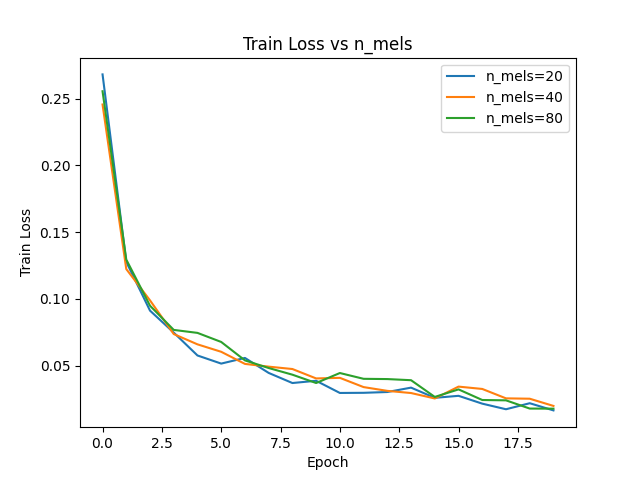
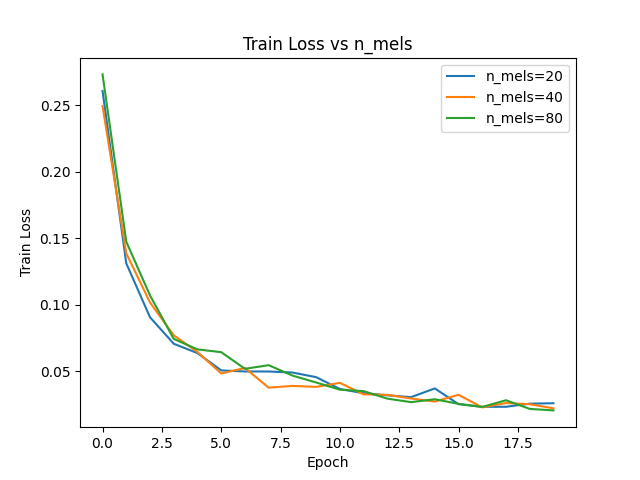
New graphics + report

diff --git a/assignments/assignment1/REPORT.md b/assignments/assignment1/REPORT.md
@@ -1,0 +1,281 @@
+# Отчет по заданию 1. Цифровая обработка сигналов
+
+## 1. Реализация LogMelFilterBanks
+
+Реализован PyTorch-модуль `LogMelFilterBanks` для извлечения логарифмов энергий мел-фильтров. Модуль последовательно выполняет: STFT с окном Ханна, вычисление спектра мощности, мел-фильтрацию и логарифмирование.
+
+Реализация проверена на соответствие эталонному `torchaudio.transforms.MelSpectrogram` — оба assert (`shape` и `allclose`) проходят успешно.
+
+### Визуальное сравнение
+
+Сравнение на произвольном аудиофайле (16 кГц): сверху — `torchaudio.MelSpectrogram` (с логарифмом), снизу — наша реализация. Спектрограммы визуально идентичны.
+
+![Сравнение мел-спектрограмм](melbanks_comparison.png)
+
+---
+
+## 2. Архитектура модели
+
+Модель SpeechCNN для бинарной классификации ("yes" / "no") на датасете Google Speech Commands. Три слоя Conv1d (32→64→64 каналов, kernel_size=5) с BatchNorm и ReLU, Global Average Pooling и линейный классификатор. На вход подаются LogMelFilterBanks-признаки.
+
+Обучение: Adam (lr=1e-3), batch size 64, 20 эпох, BCEWithLogitsLoss.
+Данные: Train — 6358, Val — 803, Test — 824 сэмплов.
+
+---
+
+## 3. Эксперименты с числом мел-фильтров (n_mels)
+
+| n_mels | Параметры | Test Accuracy |
+|--------|-----------|---------------|
+| 20     | 34 465    | **99.51%**    |
+| 40     | 37 665    | 99.64%        |
+| 80     | 44 065    | 98.06%        |
+
+### Логи обучения
+
+<details>
+<summary>n_mels=20</summary>
+
+```
+Epoch  1/20 | Loss: 0.2608 | Val Acc: 0.9676 | Time: 4.35s
+Epoch  2/20 | Loss: 0.1312 | Val Acc: 0.9726 | Time: 2.20s
+Epoch  3/20 | Loss: 0.0907 | Val Acc: 0.9763 | Time: 2.15s
+Epoch  4/20 | Loss: 0.0708 | Val Acc: 0.9726 | Time: 2.26s
+Epoch  5/20 | Loss: 0.0637 | Val Acc: 0.9589 | Time: 2.96s
+Epoch  6/20 | Loss: 0.0507 | Val Acc: 0.9813 | Time: 2.12s
+Epoch  7/20 | Loss: 0.0499 | Val Acc: 0.9875 | Time: 2.11s
+Epoch  8/20 | Loss: 0.0499 | Val Acc: 0.9851 | Time: 2.13s
+Epoch  9/20 | Loss: 0.0491 | Val Acc: 0.9863 | Time: 2.17s
+Epoch 10/20 | Loss: 0.0457 | Val Acc: 0.9925 | Time: 2.83s
+Epoch 11/20 | Loss: 0.0368 | Val Acc: 0.9900 | Time: 2.49s
+Epoch 12/20 | Loss: 0.0336 | Val Acc: 0.9900 | Time: 2.18s
+Epoch 13/20 | Loss: 0.0320 | Val Acc: 0.9801 | Time: 2.12s
+Epoch 14/20 | Loss: 0.0306 | Val Acc: 0.9851 | Time: 2.25s
+Epoch 15/20 | Loss: 0.0372 | Val Acc: 0.9888 | Time: 2.56s
+Epoch 16/20 | Loss: 0.0253 | Val Acc: 0.9938 | Time: 2.75s
+Epoch 17/20 | Loss: 0.0233 | Val Acc: 0.9913 | Time: 2.17s
+Epoch 18/20 | Loss: 0.0234 | Val Acc: 0.9875 | Time: 2.17s
+Epoch 19/20 | Loss: 0.0257 | Val Acc: 0.9913 | Time: 2.18s
+Epoch 20/20 | Loss: 0.0261 | Val Acc: 0.9925 | Time: 2.38s
+Test Acc: 0.9951
+```
+</details>
+
+<details>
+<summary>n_mels=40</summary>
+
+```
+Epoch  1/20 | Loss: 0.2495 | Val Acc: 0.9004 | Time: 3.02s
+Epoch  2/20 | Loss: 0.1387 | Val Acc: 0.8979 | Time: 2.21s
+Epoch  3/20 | Loss: 0.1018 | Val Acc: 0.9415 | Time: 2.27s
+Epoch  4/20 | Loss: 0.0771 | Val Acc: 0.9738 | Time: 2.23s
+Epoch  5/20 | Loss: 0.0646 | Val Acc: 0.9103 | Time: 2.26s
+Epoch  6/20 | Loss: 0.0484 | Val Acc: 0.9776 | Time: 2.86s
+Epoch  7/20 | Loss: 0.0526 | Val Acc: 0.9738 | Time: 2.21s
+Epoch  8/20 | Loss: 0.0377 | Val Acc: 0.9838 | Time: 2.26s
+Epoch  9/20 | Loss: 0.0391 | Val Acc: 0.9888 | Time: 2.27s
+Epoch 10/20 | Loss: 0.0383 | Val Acc: 0.9589 | Time: 2.17s
+Epoch 11/20 | Loss: 0.0414 | Val Acc: 0.9863 | Time: 2.78s
+Epoch 12/20 | Loss: 0.0327 | Val Acc: 0.9714 | Time: 2.50s
+Epoch 13/20 | Loss: 0.0324 | Val Acc: 0.9900 | Time: 2.21s
+Epoch 14/20 | Loss: 0.0296 | Val Acc: 0.9838 | Time: 2.16s
+Epoch 15/20 | Loss: 0.0273 | Val Acc: 0.9826 | Time: 2.23s
+Epoch 16/20 | Loss: 0.0324 | Val Acc: 0.9851 | Time: 2.69s
+Epoch 17/20 | Loss: 0.0229 | Val Acc: 0.9851 | Time: 2.77s
+Epoch 18/20 | Loss: 0.0262 | Val Acc: 0.9863 | Time: 2.21s
+Epoch 19/20 | Loss: 0.0253 | Val Acc: 0.9913 | Time: 2.18s
+Epoch 20/20 | Loss: 0.0222 | Val Acc: 0.9913 | Time: 2.21s
+Test Acc: 0.9964
+```
+</details>
+
+<details>
+<summary>n_mels=80</summary>
+
+```
+Epoch  1/20 | Loss: 0.2733 | Val Acc: 0.9340 | Time: 2.46s
+Epoch  2/20 | Loss: 0.1475 | Val Acc: 0.9763 | Time: 2.80s
+Epoch  3/20 | Loss: 0.1071 | Val Acc: 0.9838 | Time: 2.16s
+Epoch  4/20 | Loss: 0.0744 | Val Acc: 0.9738 | Time: 2.20s
+Epoch  5/20 | Loss: 0.0665 | Val Acc: 0.9863 | Time: 2.18s
+Epoch  6/20 | Loss: 0.0644 | Val Acc: 0.9801 | Time: 2.39s
+Epoch  7/20 | Loss: 0.0519 | Val Acc: 0.9651 | Time: 3.15s
+Epoch  8/20 | Loss: 0.0547 | Val Acc: 0.9863 | Time: 2.24s
+Epoch  9/20 | Loss: 0.0469 | Val Acc: 0.9738 | Time: 2.32s
+Epoch 10/20 | Loss: 0.0417 | Val Acc: 0.9838 | Time: 2.34s
+Epoch 11/20 | Loss: 0.0362 | Val Acc: 0.9875 | Time: 2.49s
+Epoch 12/20 | Loss: 0.0352 | Val Acc: 0.9701 | Time: 3.09s
+Epoch 13/20 | Loss: 0.0295 | Val Acc: 0.9888 | Time: 2.25s
+Epoch 14/20 | Loss: 0.0269 | Val Acc: 0.9738 | Time: 2.21s
+Epoch 15/20 | Loss: 0.0290 | Val Acc: 0.9863 | Time: 2.31s
+Epoch 16/20 | Loss: 0.0256 | Val Acc: 0.9838 | Time: 2.23s
+Epoch 17/20 | Loss: 0.0232 | Val Acc: 0.9863 | Time: 3.03s
+Epoch 18/20 | Loss: 0.0283 | Val Acc: 0.9614 | Time: 2.36s
+Epoch 19/20 | Loss: 0.0218 | Val Acc: 0.9863 | Time: 2.29s
+Epoch 20/20 | Loss: 0.0207 | Val Acc: 0.9813 | Time: 2.29s
+Test Acc: 0.9806
+```
+</details>
+
+### Графики
+
+| Train Loss | Test Accuracy |
+|:---:|:---:|
+| ![Train Loss vs n_mels](loss_vs_nmels.png) | ![Accuracy vs n_mels](acc_vs_nmels.png) |
+
+### Выводы
+
+- Все три варианта сходятся к похожим значениям loss (~0.02) за 20 эпох.
+- Для бинарной задачи (yes/no) даже 20 мел-фильтров достаточно для высокой точности (99.5%).
+- Увеличение `n_mels` увеличивает количество параметров (за счет первого Conv1d-слоя), но не дает прироста качества.
+- Наилучший баланс: `n_mels=40` (99.64% при 37 665 параметрах).
+
+---
+
+## 4. Эксперименты с групповыми свертками (groups)
+
+Базовая модель: `n_mels=80`, варьируется параметр `groups` в Conv1d-слоях.
+
+| Groups | Параметры | FLOPs       | Test Accuracy |
+|--------|-----------|-------------|---------------|
+| 1      | 44 065    | 6 100 465   | 98.06%        |
+| 2      | 22 305    | 3 902 705   | 98.67%        |
+| 4      | 11 425    | 2 803 825   | **98.79%**    |
+| 8      | 5 985     | 2 254 385   | 96.48%        |
+| 16     | 3 265     | 1 979 665   | 96.36%        |
+
+### Логи обучения
+
+<details>
+<summary>groups=2</summary>
+
+```
+Epoch  1/20 | Loss: 0.3178 | Val Acc: 0.9278 | Time: 2.81s
+Epoch  2/20 | Loss: 0.1693 | Val Acc: 0.8630 | Time: 3.42s
+Epoch  3/20 | Loss: 0.1270 | Val Acc: 0.9352 | Time: 2.64s
+Epoch  4/20 | Loss: 0.1120 | Val Acc: 0.9328 | Time: 2.69s
+Epoch  5/20 | Loss: 0.0918 | Val Acc: 0.6164 | Time: 2.69s
+Epoch  6/20 | Loss: 0.0861 | Val Acc: 0.9738 | Time: 3.18s
+Epoch  7/20 | Loss: 0.0781 | Val Acc: 0.9601 | Time: 2.83s
+Epoch  8/20 | Loss: 0.0654 | Val Acc: 0.9676 | Time: 2.72s
+Epoch  9/20 | Loss: 0.0582 | Val Acc: 0.9863 | Time: 2.66s
+Epoch 10/20 | Loss: 0.0527 | Val Acc: 0.9763 | Time: 2.91s
+Epoch 11/20 | Loss: 0.0498 | Val Acc: 0.9788 | Time: 3.15s
+Epoch 12/20 | Loss: 0.0412 | Val Acc: 0.9813 | Time: 2.72s
+Epoch 13/20 | Loss: 0.0425 | Val Acc: 0.9714 | Time: 2.71s
+Epoch 14/20 | Loss: 0.0424 | Val Acc: 0.9788 | Time: 2.72s
+Epoch 15/20 | Loss: 0.0497 | Val Acc: 0.9514 | Time: 3.50s
+Epoch 16/20 | Loss: 0.0425 | Val Acc: 0.9875 | Time: 2.71s
+Epoch 17/20 | Loss: 0.0343 | Val Acc: 0.9477 | Time: 2.73s
+Epoch 18/20 | Loss: 0.0373 | Val Acc: 0.9601 | Time: 2.72s
+Epoch 19/20 | Loss: 0.0353 | Val Acc: 0.9763 | Time: 3.15s
+Epoch 20/20 | Loss: 0.0290 | Val Acc: 0.9888 | Time: 2.99s
+Test Acc: 0.9867
+```
+</details>
+
+<details>
+<summary>groups=4</summary>
+
+```
+Epoch  1/20 | Loss: 0.4127 | Val Acc: 0.8667 | Time: 2.39s
+Epoch  2/20 | Loss: 0.2278 | Val Acc: 0.9278 | Time: 2.32s
+Epoch  3/20 | Loss: 0.1588 | Val Acc: 0.8879 | Time: 2.36s
+Epoch  4/20 | Loss: 0.1234 | Val Acc: 0.9477 | Time: 3.03s
+Epoch  5/20 | Loss: 0.1044 | Val Acc: 0.9689 | Time: 2.42s
+Epoch  6/20 | Loss: 0.0920 | Val Acc: 0.7447 | Time: 2.33s
+Epoch  7/20 | Loss: 0.0783 | Val Acc: 0.9278 | Time: 2.34s
+Epoch  8/20 | Loss: 0.0693 | Val Acc: 0.7534 | Time: 2.43s
+Epoch  9/20 | Loss: 0.0625 | Val Acc: 0.9689 | Time: 3.13s
+Epoch 10/20 | Loss: 0.0671 | Val Acc: 0.9601 | Time: 2.34s
+Epoch 11/20 | Loss: 0.0522 | Val Acc: 0.8194 | Time: 2.34s
+Epoch 12/20 | Loss: 0.0493 | Val Acc: 0.9664 | Time: 2.39s
+Epoch 13/20 | Loss: 0.0513 | Val Acc: 0.9539 | Time: 2.44s
+Epoch 14/20 | Loss: 0.0454 | Val Acc: 0.9838 | Time: 3.04s
+Epoch 15/20 | Loss: 0.0455 | Val Acc: 0.9340 | Time: 2.34s
+Epoch 16/20 | Loss: 0.0409 | Val Acc: 0.9763 | Time: 2.43s
+Epoch 17/20 | Loss: 0.0399 | Val Acc: 0.9813 | Time: 2.36s
+Epoch 18/20 | Loss: 0.0333 | Val Acc: 0.9664 | Time: 2.50s
+Epoch 19/20 | Loss: 0.0326 | Val Acc: 0.9826 | Time: 3.02s
+Epoch 20/20 | Loss: 0.0267 | Val Acc: 0.9913 | Time: 2.35s
+Test Acc: 0.9879
+```
+</details>
+
+<details>
+<summary>groups=8</summary>
+
+```
+Epoch  1/20 | Loss: 0.5080 | Val Acc: 0.7671 | Time: 2.26s
+Epoch  2/20 | Loss: 0.3283 | Val Acc: 0.8991 | Time: 2.25s
+Epoch  3/20 | Loss: 0.2443 | Val Acc: 0.9178 | Time: 2.45s
+Epoch  4/20 | Loss: 0.2047 | Val Acc: 0.9191 | Time: 2.94s
+Epoch  5/20 | Loss: 0.1811 | Val Acc: 0.9303 | Time: 2.26s
+Epoch  6/20 | Loss: 0.1572 | Val Acc: 0.7696 | Time: 2.24s
+Epoch  7/20 | Loss: 0.1472 | Val Acc: 0.9601 | Time: 2.21s
+Epoch  8/20 | Loss: 0.1316 | Val Acc: 0.9340 | Time: 2.25s
+Epoch  9/20 | Loss: 0.1258 | Val Acc: 0.9564 | Time: 3.01s
+Epoch 10/20 | Loss: 0.1152 | Val Acc: 0.9489 | Time: 2.20s
+Epoch 11/20 | Loss: 0.1048 | Val Acc: 0.9514 | Time: 2.20s
+Epoch 12/20 | Loss: 0.1006 | Val Acc: 0.9552 | Time: 2.21s
+Epoch 13/20 | Loss: 0.0935 | Val Acc: 0.9751 | Time: 2.14s
+Epoch 14/20 | Loss: 0.0874 | Val Acc: 0.9689 | Time: 2.89s
+Epoch 15/20 | Loss: 0.0807 | Val Acc: 0.9539 | Time: 2.43s
+Epoch 16/20 | Loss: 0.0784 | Val Acc: 0.9738 | Time: 2.21s
+Epoch 17/20 | Loss: 0.0756 | Val Acc: 0.9738 | Time: 2.23s
+Epoch 18/20 | Loss: 0.0702 | Val Acc: 0.9016 | Time: 2.27s
+Epoch 19/20 | Loss: 0.0695 | Val Acc: 0.9738 | Time: 2.82s
+Epoch 20/20 | Loss: 0.0728 | Val Acc: 0.9664 | Time: 2.54s
+Test Acc: 0.9648
+```
+</details>
+
+<details>
+<summary>groups=16</summary>
+
+```
+Epoch  1/20 | Loss: 0.5411 | Val Acc: 0.8804 | Time: 2.25s
+Epoch  2/20 | Loss: 0.3644 | Val Acc: 0.8929 | Time: 2.27s
+Epoch  3/20 | Loss: 0.2788 | Val Acc: 0.9078 | Time: 2.23s
+Epoch  4/20 | Loss: 0.2351 | Val Acc: 0.8468 | Time: 2.78s
+Epoch  5/20 | Loss: 0.2100 | Val Acc: 0.9215 | Time: 2.62s
+Epoch  6/20 | Loss: 0.1913 | Val Acc: 0.9265 | Time: 2.26s
+Epoch  7/20 | Loss: 0.1694 | Val Acc: 0.9166 | Time: 2.27s
+Epoch  8/20 | Loss: 0.1602 | Val Acc: 0.9390 | Time: 2.26s
+Epoch  9/20 | Loss: 0.1482 | Val Acc: 0.9489 | Time: 2.76s
+Epoch 10/20 | Loss: 0.1347 | Val Acc: 0.9452 | Time: 2.74s
+Epoch 11/20 | Loss: 0.1308 | Val Acc: 0.9215 | Time: 2.26s
+Epoch 12/20 | Loss: 0.1199 | Val Acc: 0.9228 | Time: 2.29s
+Epoch 13/20 | Loss: 0.1111 | Val Acc: 0.9502 | Time: 2.23s
+Epoch 14/20 | Loss: 0.1075 | Val Acc: 0.9402 | Time: 2.69s
+Epoch 15/20 | Loss: 0.0993 | Val Acc: 0.9228 | Time: 2.75s
+Epoch 16/20 | Loss: 0.0972 | Val Acc: 0.9564 | Time: 2.23s
+Epoch 17/20 | Loss: 0.0896 | Val Acc: 0.9639 | Time: 2.27s
+Epoch 18/20 | Loss: 0.0852 | Val Acc: 0.9676 | Time: 2.18s
+Epoch 19/20 | Loss: 0.0854 | Val Acc: 0.9552 | Time: 2.51s
+Epoch 20/20 | Loss: 0.0839 | Val Acc: 0.9415 | Time: 2.90s
+Test Acc: 0.9636
+```
+</details>
+
+### Графики
+
+| Параметры vs Groups | FLOPs vs Groups | Время обучения vs Groups |
+|:---:|:---:|:---:|
+| ![Params vs Groups](params_vs_groups.png) | ![FLOPs vs Groups](flops_vs_groups.png) | ![Time vs Groups](time_vs_groups.png) |
+
+### Выводы
+
+- **Параметры и FLOPs** уменьшаются с ростом groups. При `groups=16` параметров в ~13.5 раз меньше, а FLOPs в ~3 раза меньше, чем при `groups=1`.
+- **Точность** остается высокой при `groups=2` и `groups=4` (>98%), но снижается при `groups=8` и `groups=16` (~96.4%) — групповые свертки ограничивают взаимодействие между каналами.
+- **Время обучения** уменьшается с ~2.9с до ~2.4с на эпоху, но выигрыш невелик — при малом размере модели накладные расходы GPU доминируют.
+- Оптимальный компромисс: `groups=4` — уменьшение параметров в ~4 раза при сохранении высокой точности (98.79%).
+
+---
+
+## Общие выводы
+
+1. Реализация `LogMelFilterBanks` полностью совпадает с эталонной `torchaudio.MelSpectrogram`.
+2. Для бинарной задачи (yes/no) компактная CNN-модель (<50K параметров) достигает точности >98%.
+3. Групповые свертки — эффективный способ уменьшения параметров и FLOPs с умеренной потерей качества.
+4. Оптимальная конфигурация по соотношению качество/эффективность: `n_mels=40`, `groups=4`.
